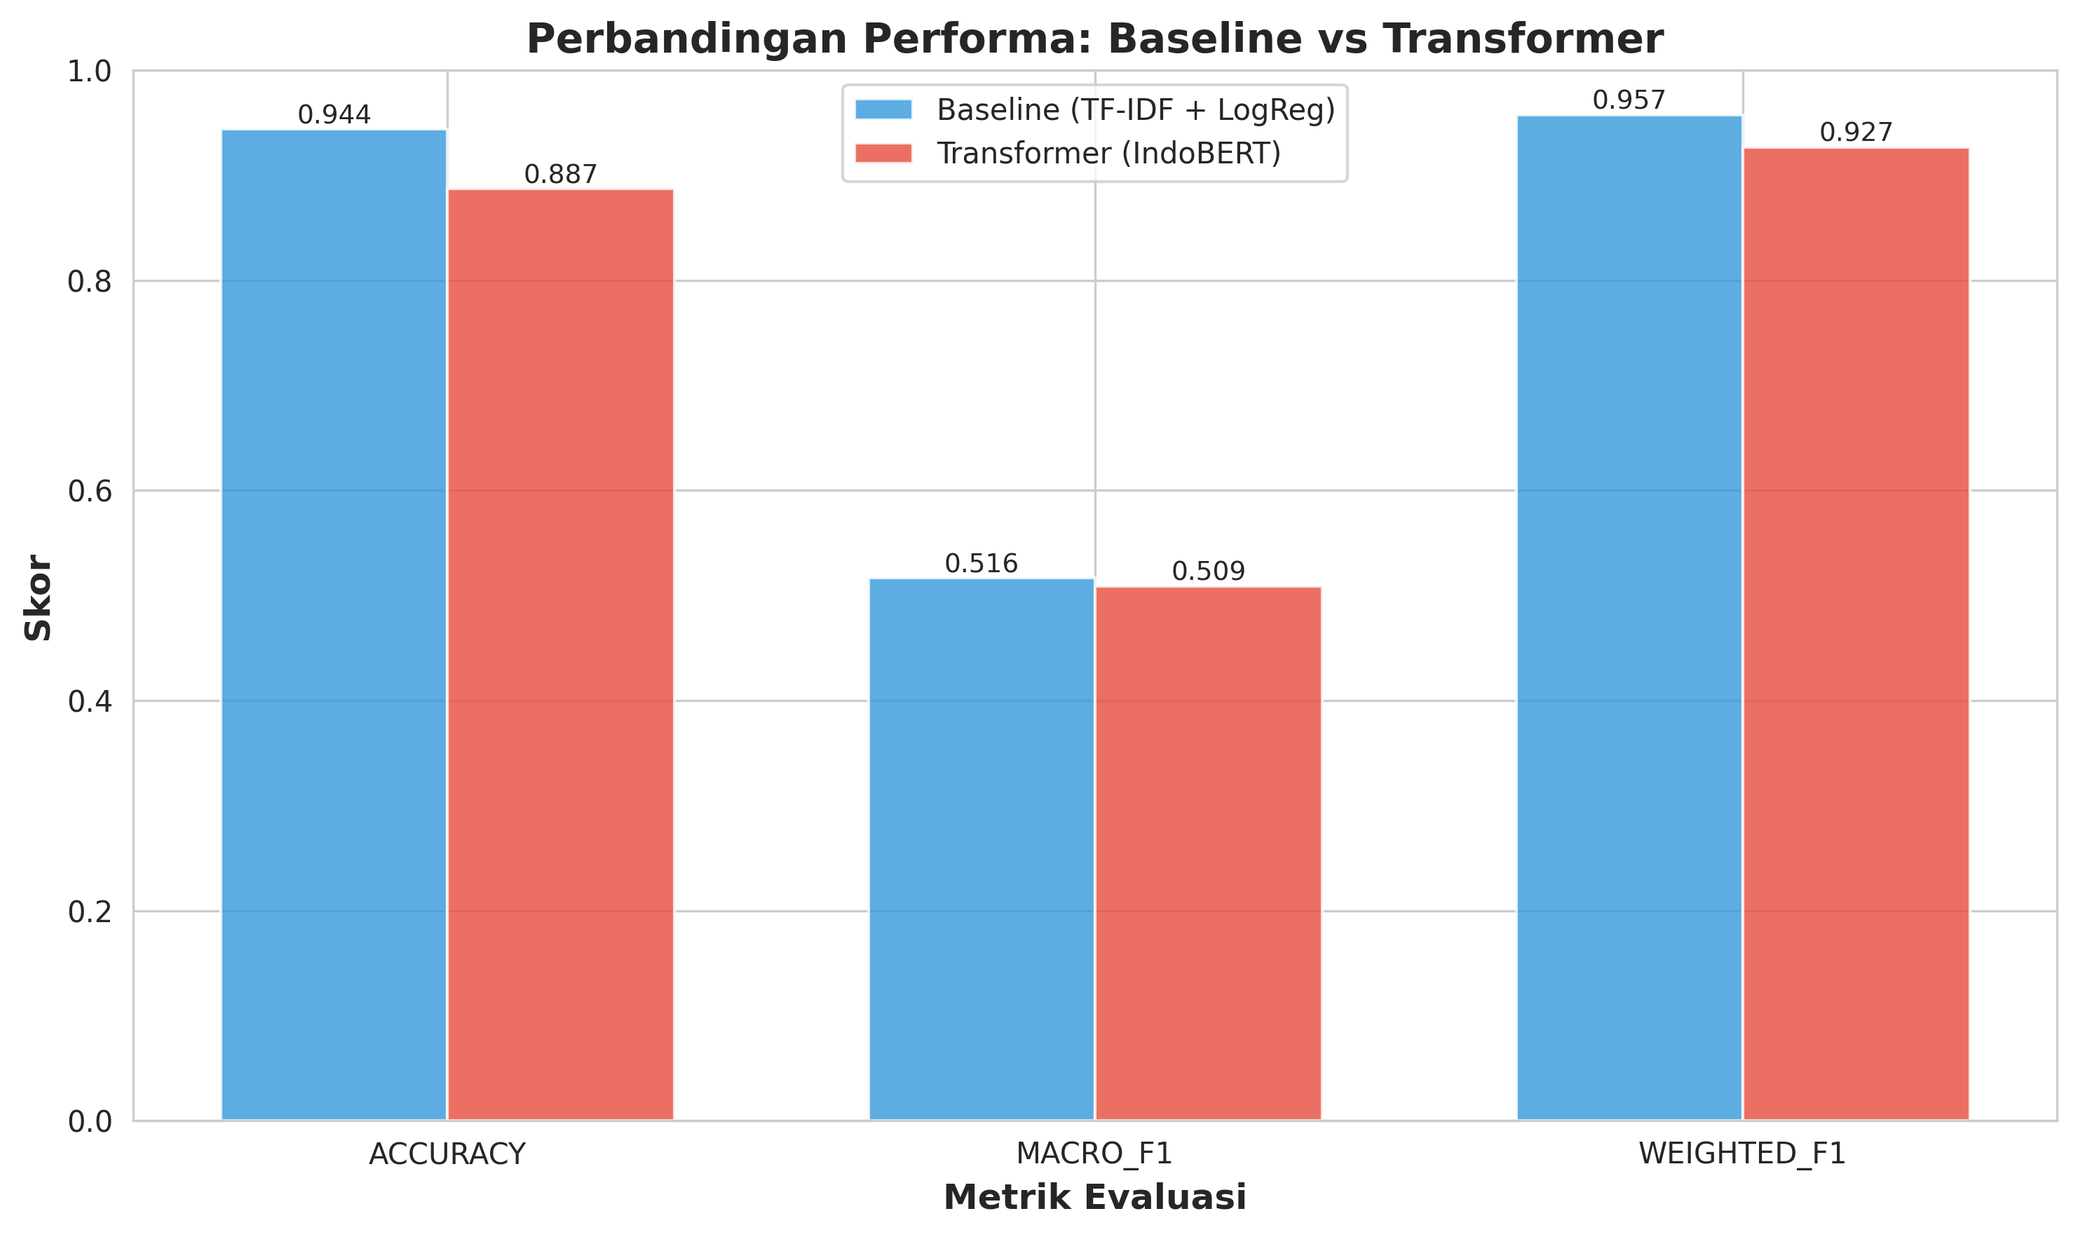
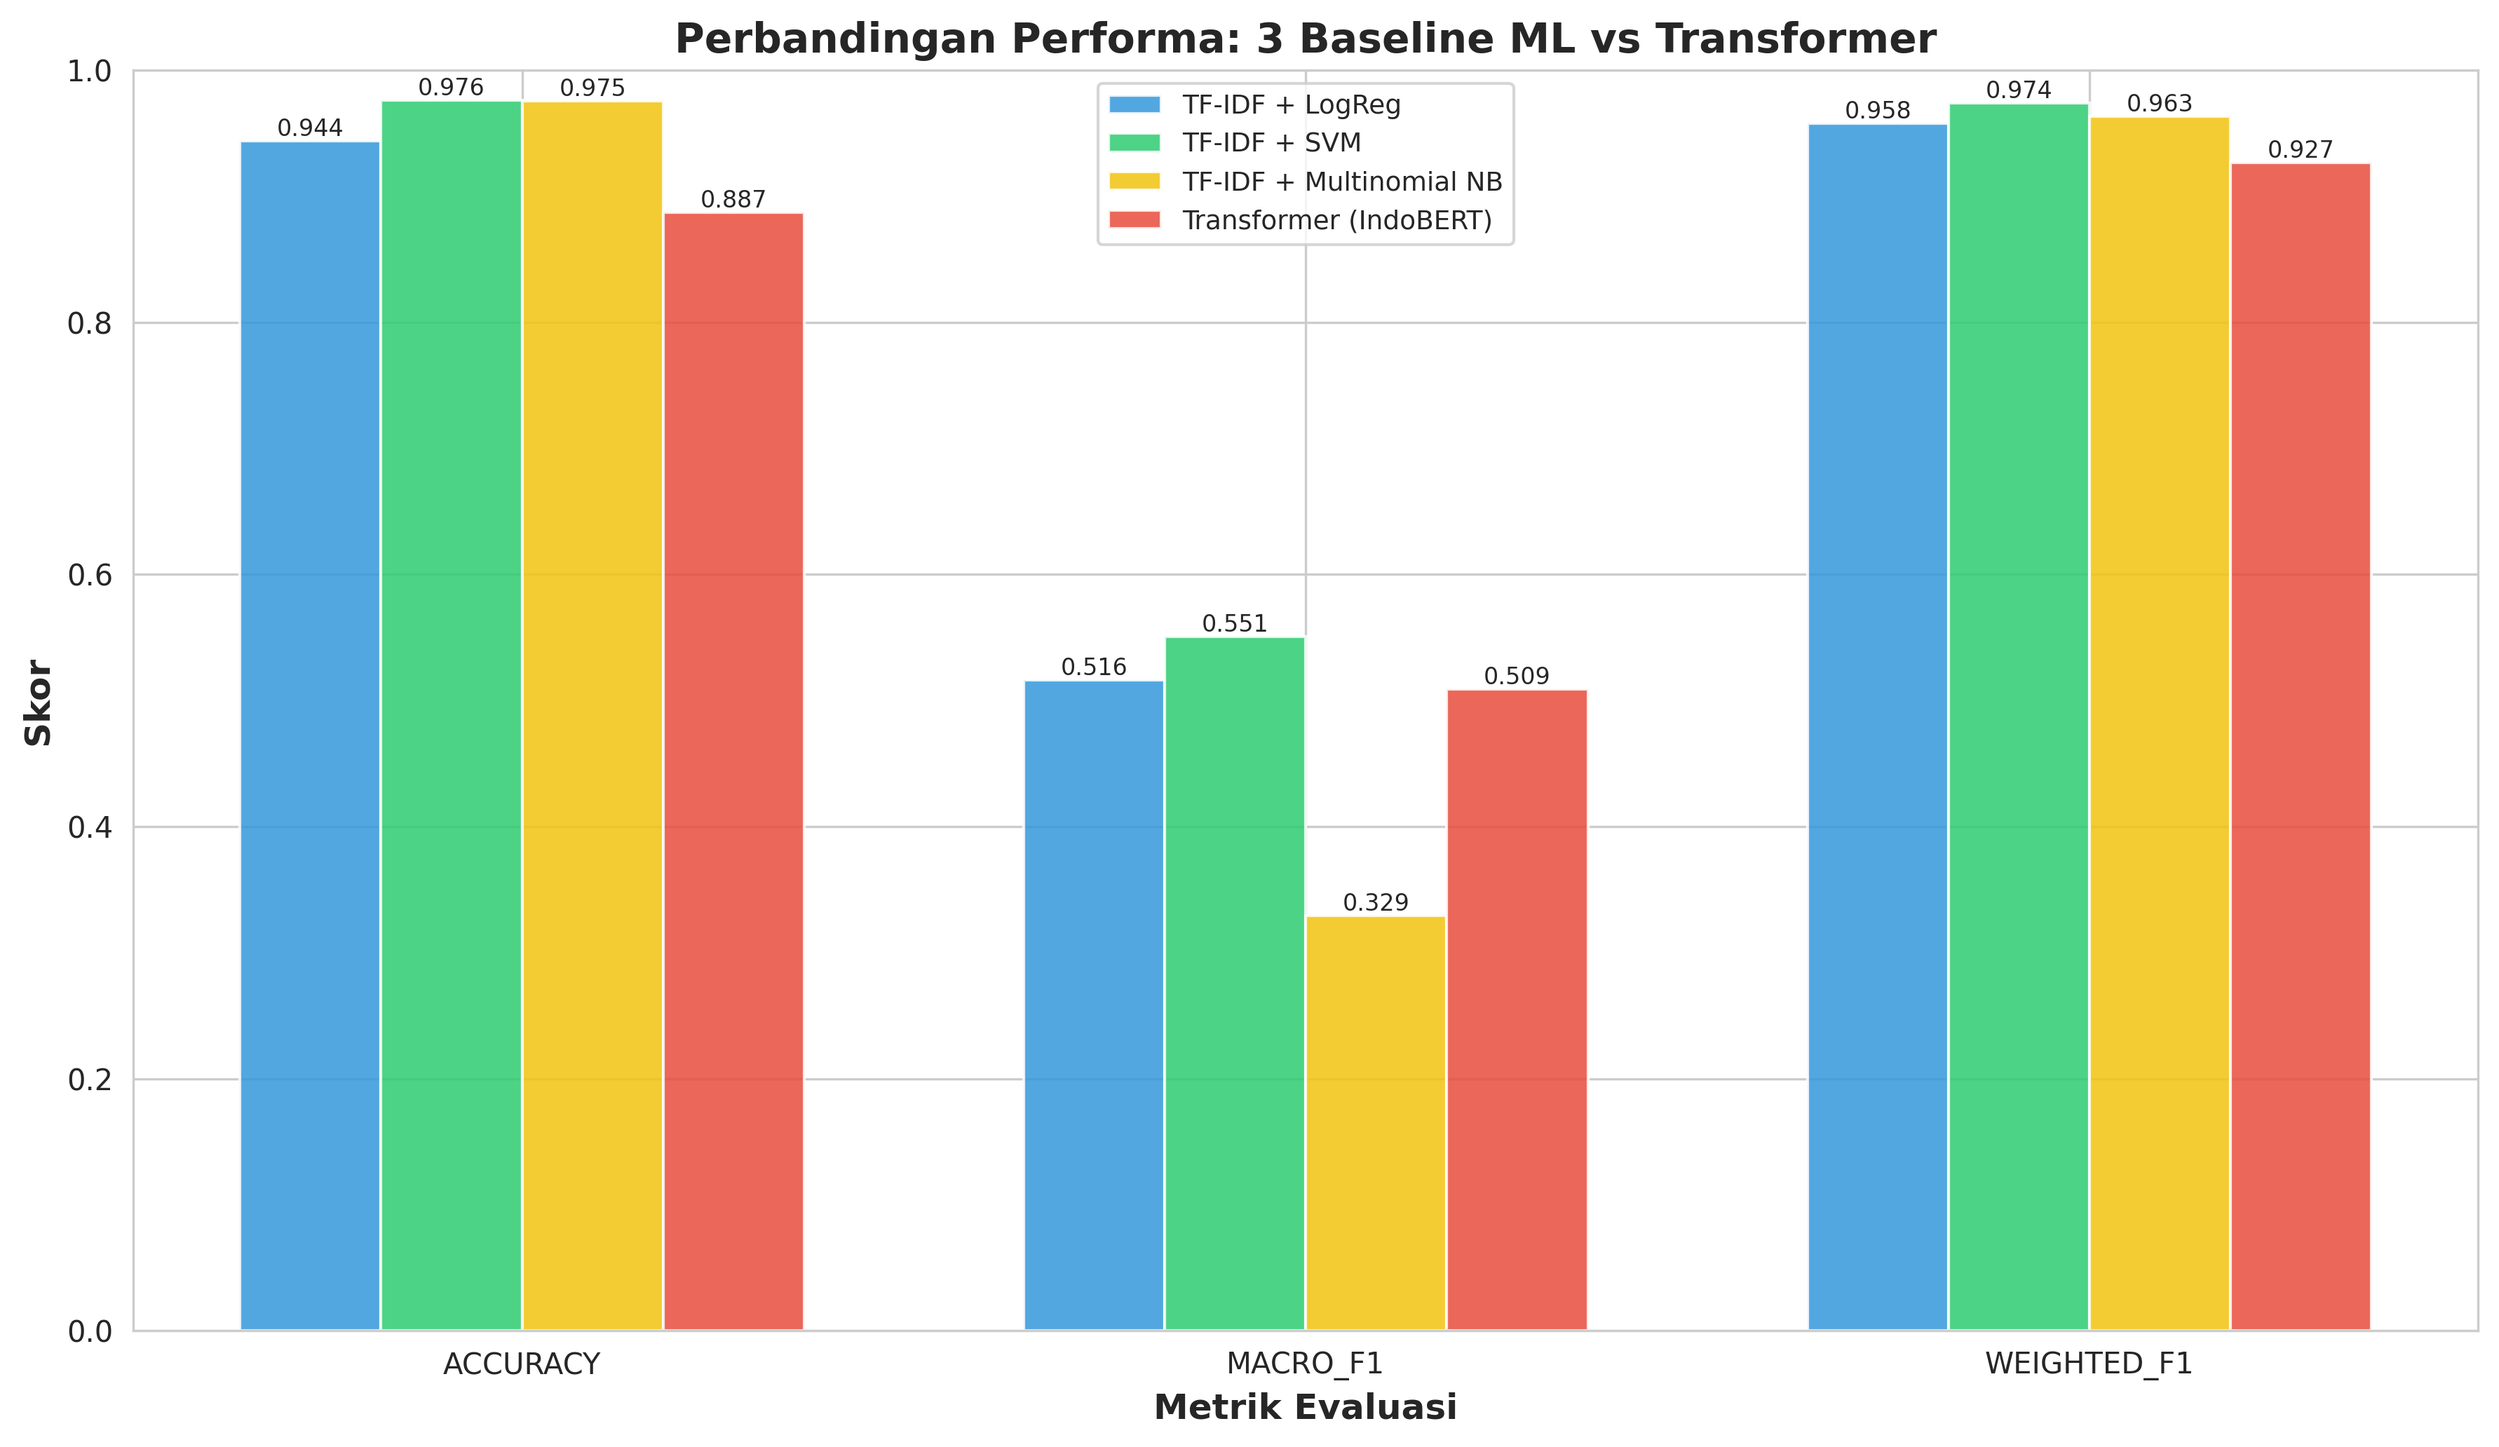
Regenerate paper-ready visuals for 4-model comparison using arxiv_report fallback

diff --git a/module_ML/visualize_metrics.py b/module_ML/visualize_metrics.py
@@ -9,41 +9,61 @@ import matplotlib.patches as mpatches
 import numpy as np
 import seaborn as sns
 
-from config import REPORT_DIR, MODEL_DIR
+from config import REPORT_DIR
 
 sns.set_style("whitegrid")
 plt.rcParams['figure.figsize'] = (14, 5)
 
+ARXIV_REPORT_PATH = REPORT_DIR / "arxiv_report.json"
 
-def load_metrics(report_path: Path) -> Dict[str, Any]:
-    """Load metrics dari file JSON."""
+
+def load_json(report_path: Path) -> Dict[str, Any]:
+    if not report_path.exists():
+        return {}
     with report_path.open("r", encoding="utf-8") as f:
         return json.load(f)
 
 
+def load_metrics(report_path: Path, model_key: str | None = None) -> Dict[str, Any]:
+    """Load metrics dari file JSON atau fallback ke arxiv_report.json."""
+    data = load_json(report_path)
+    if data:
+        return data
+
+    if model_key is None:
+        return {}
+
+    arxiv_report = load_json(ARXIV_REPORT_PATH)
+    return arxiv_report.get("models", {}).get(model_key, {})
+
+
 def plot_metrics_comparison():
     """Visualize perbandingan metrik dari 3 baseline ML dan 1 model transformer."""
-    report_paths = {
-        "TF-IDF + LogReg": REPORT_DIR / "baseline_logreg_metrics.json",
-        "TF-IDF + SVM": REPORT_DIR / "baseline_svm_metrics.json",
-        "TF-IDF + Multinomial NB": REPORT_DIR / "baseline_nb_metrics.json",
-        "Transformer (IndoBERT)": REPORT_DIR / "transformer_metrics.json",
+    report_mapping = {
+        "TF-IDF + LogReg": (REPORT_DIR / "baseline_logreg_metrics.json", "baseline_logreg"),
+        "TF-IDF + SVM": (REPORT_DIR / "baseline_svm_metrics.json", "baseline_svm"),
+        "TF-IDF + Multinomial NB": (REPORT_DIR / "baseline_nb_metrics.json", "baseline_nb"),
+        "Transformer (IndoBERT)": (REPORT_DIR / "transformer_metrics.json", "transformer"),
     }
 
-    missing = [name for name, path in report_paths.items() if not path.exists()]
-    if missing:
+    if not ARXIV_REPORT_PATH.exists() and any(not path.exists() for path, _ in report_mapping.values()):
+        missing = [name for name, (path, _) in report_mapping.items() if not path.exists()]
         print(f"⚠  Laporan belum tersedia untuk: {', '.join(missing)}. Jalankan train_run.py terlebih dahulu.")
         return
 
-    reports = {name: load_metrics(path) for name, path in report_paths.items()}
+    reports = {
+        name: load_metrics(path, model_key=model_key)
+        for name, (path, model_key) in report_mapping.items()
+    }
+
     metrics_names = ["accuracy", "macro_f1", "weighted_f1"]
 
-    model_scores = []
-    for name, report in reports.items():
-        if name == "Transformer (IndoBERT)":
-            model_scores.append([report["metrics"].get(f"eval_{m}", 0) for m in metrics_names])
-        else:
-            model_scores.append([report.get(m, 0) for m in metrics_names])
+    def score(report: Dict[str, Any], key: str) -> float:
+        if "metrics" in report:
+            return report["metrics"].get(key, 0)
+        return report.get(key, 0)
+
+    model_scores = [[score(report, m) for m in metrics_names] for report in reports.values()]
 
     x = np.arange(len(metrics_names))
     width = 0.18
@@ -51,7 +71,7 @@ def plot_metrics_comparison():
     fig, ax = plt.subplots(figsize=(12, 7))
     colors = ["#3498db", "#2ecc71", "#f1c40f", "#e74c3c"]
     bars = []
-    for i, (name, scores) in enumerate(zip(report_paths.keys(), model_scores)):
+    for i, (name, scores) in enumerate(zip(reports.keys(), model_scores)):
         bars.append(
             ax.bar(x + (i - 1.5) * width, scores, width, label=name, color=colors[i], alpha=0.85)
         )
@@ -74,23 +94,32 @@ def plot_metrics_comparison():
     fig.savefig(REPORT_DIR / "metrics_comparison.png", dpi=300, bbox_inches='tight')
     print(f"✓ Visualisasi metrics comparison tersimpan: {REPORT_DIR}/metrics_comparison.png")
     plt.close()
+    return True
 
 
 def plot_confusion_matrices():
     """Visualize confusion matrix untuk ketiga baseline dan transformer."""
     report_paths = {
-        "TF-IDF + LogReg": REPORT_DIR / "baseline_logreg_metrics.json",
-        "TF-IDF + SVM": REPORT_DIR / "baseline_svm_metrics.json",
-        "TF-IDF + Multinomial NB": REPORT_DIR / "baseline_nb_metrics.json",
-        "Transformer (IndoBERT)": REPORT_DIR / "transformer_metrics.json",
+        "TF-IDF + LogReg": (REPORT_DIR / "baseline_logreg_metrics.json", "baseline_logreg"),
+        "TF-IDF + SVM": (REPORT_DIR / "baseline_svm_metrics.json", "baseline_svm"),
+        "TF-IDF + Multinomial NB": (REPORT_DIR / "baseline_nb_metrics.json", "baseline_nb"),
+        "Transformer (IndoBERT)": (REPORT_DIR / "transformer_metrics.json", "transformer"),
     }
 
-    missing = [name for name, path in report_paths.items() if not path.exists()]
-    if missing:
-        print(f"⚠  Laporan belum tersedia untuk: {', '.join(missing)}.")
-        return
+    has_any_confusion = False
+    reports = {}
+    for name, (path, model_key) in report_paths.items():
+        report = load_metrics(path, model_key=model_key)
+        reports[name] = report
+        if name != "Transformer (IndoBERT)" and report.get("confusion_matrix") is not None:
+            has_any_confusion = True
+        if name == "Transformer (IndoBERT)" and report.get("metrics", {}).get("confusion_matrix") is not None:
+            has_any_confusion = True
 
-    reports = {name: load_metrics(path) for name, path in report_paths.items()}
+    if not has_any_confusion:
+        print("⚠  Data confusion matrix tidak tersedia di laporan. Confusion matrices tidak dapat dibuat.")
+        return False
+
     class_labels = ["Negatif", "Netral", "Positif"]
 
     fig, axes = plt.subplots(2, 2, figsize=(18, 12))
@@ -119,30 +148,34 @@ def plot_confusion_matrices():
     fig.savefig(REPORT_DIR / "confusion_matrices.png", dpi=300, bbox_inches='tight')
     print(f"✓ Visualisasi confusion matrices tersimpan: {REPORT_DIR}/confusion_matrices.png")
     plt.close()
+    return True
 
 
-def plot_model_summary():
+def plot_model_summary() -> bool:
     """Create summary card dengan info semua model yang diuji."""
-    report_paths = {
-        "TF-IDF + LogReg": REPORT_DIR / "baseline_logreg_metrics.json",
-        "TF-IDF + SVM": REPORT_DIR / "baseline_svm_metrics.json",
-        "TF-IDF + Multinomial NB": REPORT_DIR / "baseline_nb_metrics.json",
-        "Transformer (IndoBERT)": REPORT_DIR / "transformer_metrics.json",
+    report_mapping = {
+        "TF-IDF + LogReg": (REPORT_DIR / "baseline_logreg_metrics.json", "baseline_logreg"),
+        "TF-IDF + SVM": (REPORT_DIR / "baseline_svm_metrics.json", "baseline_svm"),
+        "TF-IDF + Multinomial NB": (REPORT_DIR / "baseline_nb_metrics.json", "baseline_nb"),
+        "Transformer (IndoBERT)": (REPORT_DIR / "transformer_metrics.json", "transformer"),
     }
 
-    missing = [name for name, path in report_paths.items() if not path.exists()]
-    if missing:
-        print(f"⚠  Laporan belum tersedia untuk: {', '.join(missing)}.")
-        return
+    arxiv_report = load_json(ARXIV_REPORT_PATH)
+    reports = {
+        name: load_metrics(path, model_key=model_key)
+        for name, (path, model_key) in report_mapping.items()
+    }
 
-    reports = {name: load_metrics(path) for name, path in report_paths.items()}
-    baseline_report = reports["TF-IDF + LogReg"]
-    dataset_size = baseline_report.get('dataset_size', 'N/A')
-    test_size = baseline_report.get('test_size', 'N/A')
+    if not any(reports.values()) and not arxiv_report:
+        print("⚠  Laporan model tidak tersedia, tidak dapat membuat model summary.")
+        return False
 
-    def get_score(report, key):
-        if report is reports["Transformer (IndoBERT)"]:
-            return report.get("metrics", {}).get(f"eval_{key}", 0)
+    dataset_size = arxiv_report.get('dataset', {}).get('total_samples', 'N/A')
+    test_size = arxiv_report.get('dataset', {}).get('test_samples', 'N/A')
+
+    def get_score(report: Dict[str, Any], key: str) -> float:
+        if "metrics" in report:
+            return report["metrics"].get(key, 0)
         return report.get(key, 0)
 
     rows = []
@@ -180,6 +213,7 @@ Model files:
     fig.savefig(REPORT_DIR / "model_summary.png", dpi=300, bbox_inches='tight')
     print(f"✓ Model summary card tersimpan: {REPORT_DIR}/model_summary.png")
     plt.close()
+    return True
 
 
 def generate_all_visualizations():
@@ -187,21 +221,18 @@ def generate_all_visualizations():
     REPORT_DIR.mkdir(parents=True, exist_ok=True)
     
     print("📊 Generating visualisasi metrik...\n")
-    
     try:
-        plot_metrics_comparison()
-        plot_confusion_matrices()
-        plot_model_summary()
+        metrics_ok = plot_metrics_comparison()
+        confusion_ok = plot_confusion_matrices()
+        summary_ok = plot_model_summary()
 
-        created = [
-            (REPORT_DIR / "metrics_comparison.png").exists(),
-            (REPORT_DIR / "confusion_matrices.png").exists(),
-            (REPORT_DIR / "model_summary.png").exists(),
-        ]
-        if not all(created):
-            raise RuntimeError("Beberapa visualisasi belum dapat dibuat karena laporan belum lengkap.")
+        if metrics_ok and summary_ok:
+            print("\n✅ Metrics comparison dan model summary berhasil dibuat!")
+        else:
+            print("\n⚠ Beberapa visualisasi belum berhasil dibuat.")
 
-        print("\n✅ Semua visualisasi berhasil dibuat!")
+        if not confusion_ok:
+            print("⚠ Data confusion matrix tidak tersedia, sehingga confusion_matrices.png tidak dibuat atau diperbarui.")
     except Exception as e:
         print(f"❌ Error saat membuat visualisasi: {e}")
 
